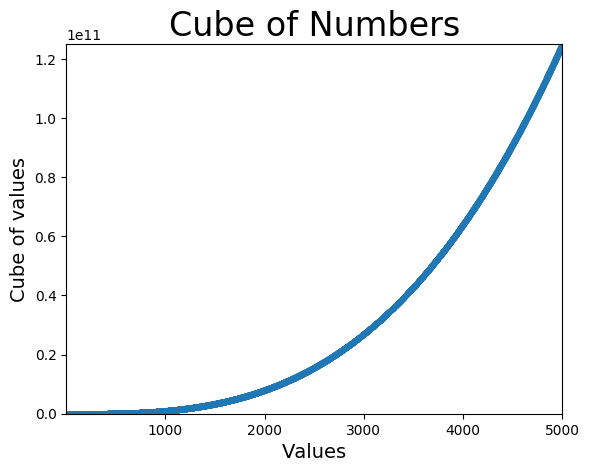
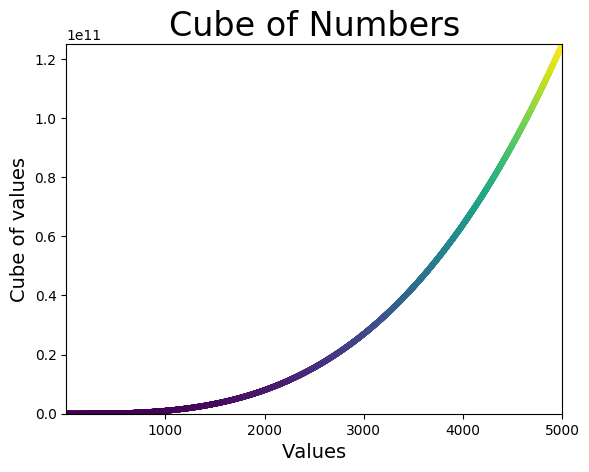
Add gradient to the graph

diff --git a/cubes.py b/cubes.py
@@ -5,7 +5,7 @@ y_values = [x**3 for x in x_values]
 plt.style.use('_classic_test_patch')
 
 fig, ax = plt.subplots()
-ax.scatter(x_values, y_values, s=10)  # Corrected here
+ax.scatter(x_values, y_values, c=y_values ,s=10)  # Corrected here
 
 # Set chart title and labels.
 ax.set_title("Cube of Numbers", fontsize=24)
